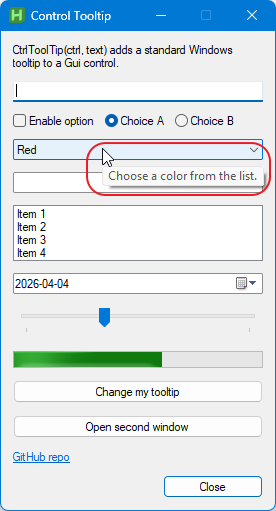
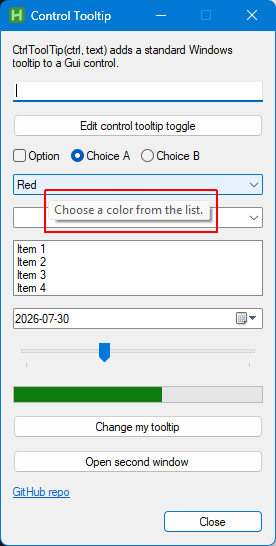
Updated v1.2

diff --git a/README.md b/README.md
@@ -24,7 +24,7 @@ This project exists to keep that job minimal:
 ## Files
 
 - `CtrlToolTip.ahk` - the helper function
-- `CtrlToolTip_sample.ahk` - example GUI showing different control types
+- `CtrlToolTip_sample.ahk` - example GUI showing different control types and tooltip visibility
 
 ## Usage
 
@@ -50,13 +50,22 @@ CtrlToolTip(ctrl, text)
 ```
 
 - `ctrl` - target `Gui.Control`
-- `text` - tooltip text shown when the mouse hovers the control
+- `text` - tooltip text shown when the mouse hovers the control. Pass an empty string (`""`) to hide/remove the tooltip.
+
+To hide a tooltip:
+
+```ahk
+CtrlToolTip(myControl, "")
+```
+
+Call `CtrlToolTip()` again with a non-empty string to show it again.
 
 ## Features
 
 - Uses the standard Windows tooltip control
 - Very small API: one function
 - Automatically updates the tooltip text if called again for the same control
+- Show or hide a tooltip by passing a tooltip string or an empty string
 - Automatically applies `SS_NOTIFY` to `Text` controls so tooltips work there too
 - Keeps tooltip handles per GUI window
 
@@ -70,6 +79,23 @@ btnChange.OnEvent("Click", ChangeTip)
 
 ChangeTip(ctrl, *) {
     CtrlToolTip(ctrl, "Tooltip changed after click.")
+}
+```
+
+## Example: Show / Hide Tooltip
+
+```ahk
+btnToggle := myGui.AddButton("w180", "Toggle tooltip")
+tipText := "This is the tooltip."
+
+CtrlToolTip(btnToggle, tipText)
+
+btnToggle.OnEvent("Click", ToggleTip)
+
+ToggleTip(ctrl, *) {
+    static visible := true
+    visible := !visible
+    CtrlToolTip(ctrl, visible ? tipText : "")
 }
 ```
 
@@ -101,7 +127,23 @@ The sample demonstrates:
 - `Progress`
 - `Link`
 - A button that changes its own tooltip
-- A second GUI window with its own tooltips
+- A button that toggles a tooltip on and off
+- Multiple GUI windows with independent tooltip management
+
+## History
+
+### v1.2 (2026-07-30)
+
+- Added tooltip show/hide support.
+- Updated the sample script.
+- Updated the documentation.
+
+### v1.1 (2026-07-08)
+
+
+### v1.0 (2026-04-04)
+
+- First release
 
 ## License
 
